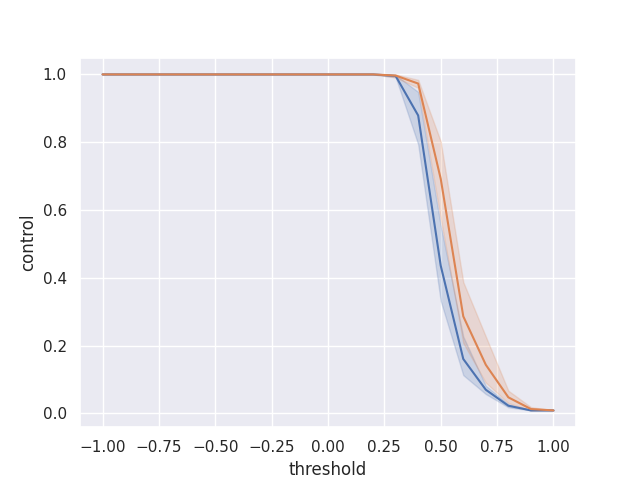
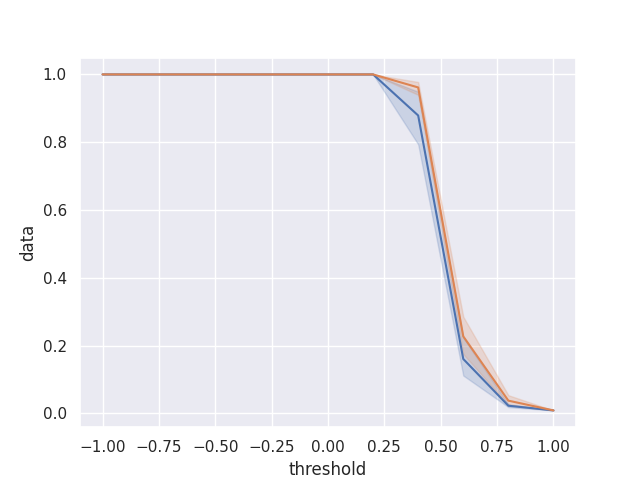
probability of disease

Changed region(s): [[0.5625, 0.1562, 0.875, 0.875], [0.0312, 0.4375, 0.0625, 0.5625]]

diff --git a/plot/ratios.py b/plot/ratios.py
@@ -4,6 +4,7 @@ import seaborn as sns
 import matplotlib.pyplot as plt
 
 wot = "ppmi"
+_min = "min"
 
 shelf = shelve.open("./shelfs/ratios_" + wot)
 ratios = shelf["data"]
@@ -13,37 +14,34 @@ shelf = shelve.open("./shelfs/global")
 thresholds = shelf["thresholds"]
 shelf.close()
 
+if _min == "min":
+    n = min(len(ratios["control"]), len(ratios["patient"]))
 
-""" n = min(len(ratios["control"]), len(ratios["patient"]))
-data_frame_min = {"threshold": thresholds.tolist()*n, "control": [], "patient": []}
-for type in ["control", "patient"]:
-    for i in range(n):
-        data_frame_min[type] += ratios[type][i]
-df_min = pd.DataFrame(data_frame_min)
-
-sns.set_theme(style="darkgrid")
-sns.lineplot(data=df_min, x="threshold", y="control")
-sns.lineplot(data=df_min, x="threshold", y="patient")
-plt.savefig("./images/ratios/" + wot + "_min" + ".png")
-plt.show() """
-
-
-data_frame_creator = {"control": {"threshold": thresholds.tolist()*len(ratios["control"]), "data": []},
-                      "patient": {"threshold": thresholds.tolist()*len(ratios["patient"]), "data": []}} 
-
-for type in ["control", "patient"]:
-    for i in range(len(ratios[type])):
-        data_frame_creator[type]["data"] += ratios[type][i]
+    data_frame_creator = {"control": {"threshold": thresholds.tolist()*n, "data": []},
+                          "patient": {"threshold": thresholds.tolist()*n, "data": []}}
     
-data_frame = {"control": pd.DataFrame(data_frame_creator["control"]),
-              "patient": pd.DataFrame(data_frame_creator["patient"])}
+    for type in ["control", "patient"]:
+        for i in range(n):
+            data_frame_creator[type]["data"] += ratios[type][i]
+else:
+    data_frame_creator = {"control": {"threshold": thresholds.tolist()*len(ratios["control"]), "data": []},
+                          "patient": {"threshold": thresholds.tolist()*len(ratios["patient"]), "data": []}}
+    
+    for type in ["control", "patient"]:
+        for i in range(len(ratios[type])):
+            data_frame_creator[type]["data"] += ratios[type][i]
+
+
+df = {"control": pd.DataFrame(data_frame_creator["control"]),
+      "patient": pd.DataFrame(data_frame_creator["patient"])}
 
 sns.set_theme(style="darkgrid")
-sns.lineplot(data=data_frame["control"], x="threshold", y="data")
-sns.lineplot(data=data_frame["patient"], x="threshold", y="data")
-plt.savefig("./images/ratios/" + wot + "_nmin" + ".png")
+sns.lineplot(data=df["control"], x="threshold", y="data")
+sns.lineplot(data=df["patient"], x="threshold", y="data")
+plt.savefig("./images/ratios/" + wot + "_min" + ".png")
 plt.show()
 
-shelf = shelve.open("./shelfs/data_frame_ratios_" + wot)
-shelf["data"] = data_frame
+shelf = shelve.open("./shelfs/data_frame_ratios_" + _min + "_" + wot)
+shelf["data"] = df
 shelf.close()
+

diff --git a/classify/ratios.py b/classify/ratios.py
@@ -1,15 +1,47 @@
 import shelve
 import pandas as pd
+import numpy as np
+import matplotlib.pyplot as plt
+
 
 wot = "ppmi"
+_min = "min"
 
-shelf = shelve.open("./shelfs/data_frame_ratios_" + wot)
+shelf = shelve.open("./shelfs/data_frame_ratios_" + _min + "_" + wot)
 df = shelf["data"]
 shelf.close()
 
-the_threshold = 0.7
+the_threshold = 0.4
 
 for type in ["control", "patient"]:
     df[type] = df[type][df[type].threshold == the_threshold]
-    print(df[type])
+    del df[type]["threshold"]
 
+value_counts = {"control": df["control"].value_counts().sort_index(),
+                "patient": df["patient"].value_counts().sort_index()}
+
+to_plot = {"control": {"x": value_counts["control"].index.get_level_values(0).values, "y": value_counts["control"].values.astype("float64")},
+           "patient": {"x": value_counts["patient"].index.get_level_values(0).values, "y": value_counts["patient"].values.astype("float64")}}
+
+#print(value_counts["control"])
+#print()
+#print(value_counts["patient"].index.get_level_values(0).values)
+#print(value_counts["patient"].values)
+
+n = 30
+
+for type in ["control", "patient"]:
+    for i in range(to_plot[type]["y"].size):
+        print(to_plot[type]["y"][i]/n)
+        to_plot[type]["y"][i] /= n
+
+plt.plot(to_plot["control"]["x"], to_plot["control"]["y"])
+plt.plot(to_plot["patient"]["x"], to_plot["patient"]["y"])
+plt.show()
+
+
+#sns.set_theme(style="darkgrid")
+#sns.lineplot(data=df["control"].value_counts())
+#sns.lineplot(data=df["patient"].value_counts())
+#plt.savefig("./images/classify/" + wot + "_n_min" + ".png")
+#plt.show()

diff --git a/generate-shelfs/global.py b/generate-shelfs/global.py
@@ -1,10 +1,14 @@
 import shelve
 import numpy as np
 
+
+thresholds = np.linspace(-1, 1, 11)
+
+for i in range(thresholds.size):
+    thresholds[i] = round(thresholds[i], 1)
+    
 shelf = shelve.open("./shelfs/global")
 
-shelf["thresholds"] = np.linspace(-1, 1, 11)
-
-shelf["the_threshold"] = 0.15
+shelf["thresholds"] = thresholds
 
 shelf.close()
